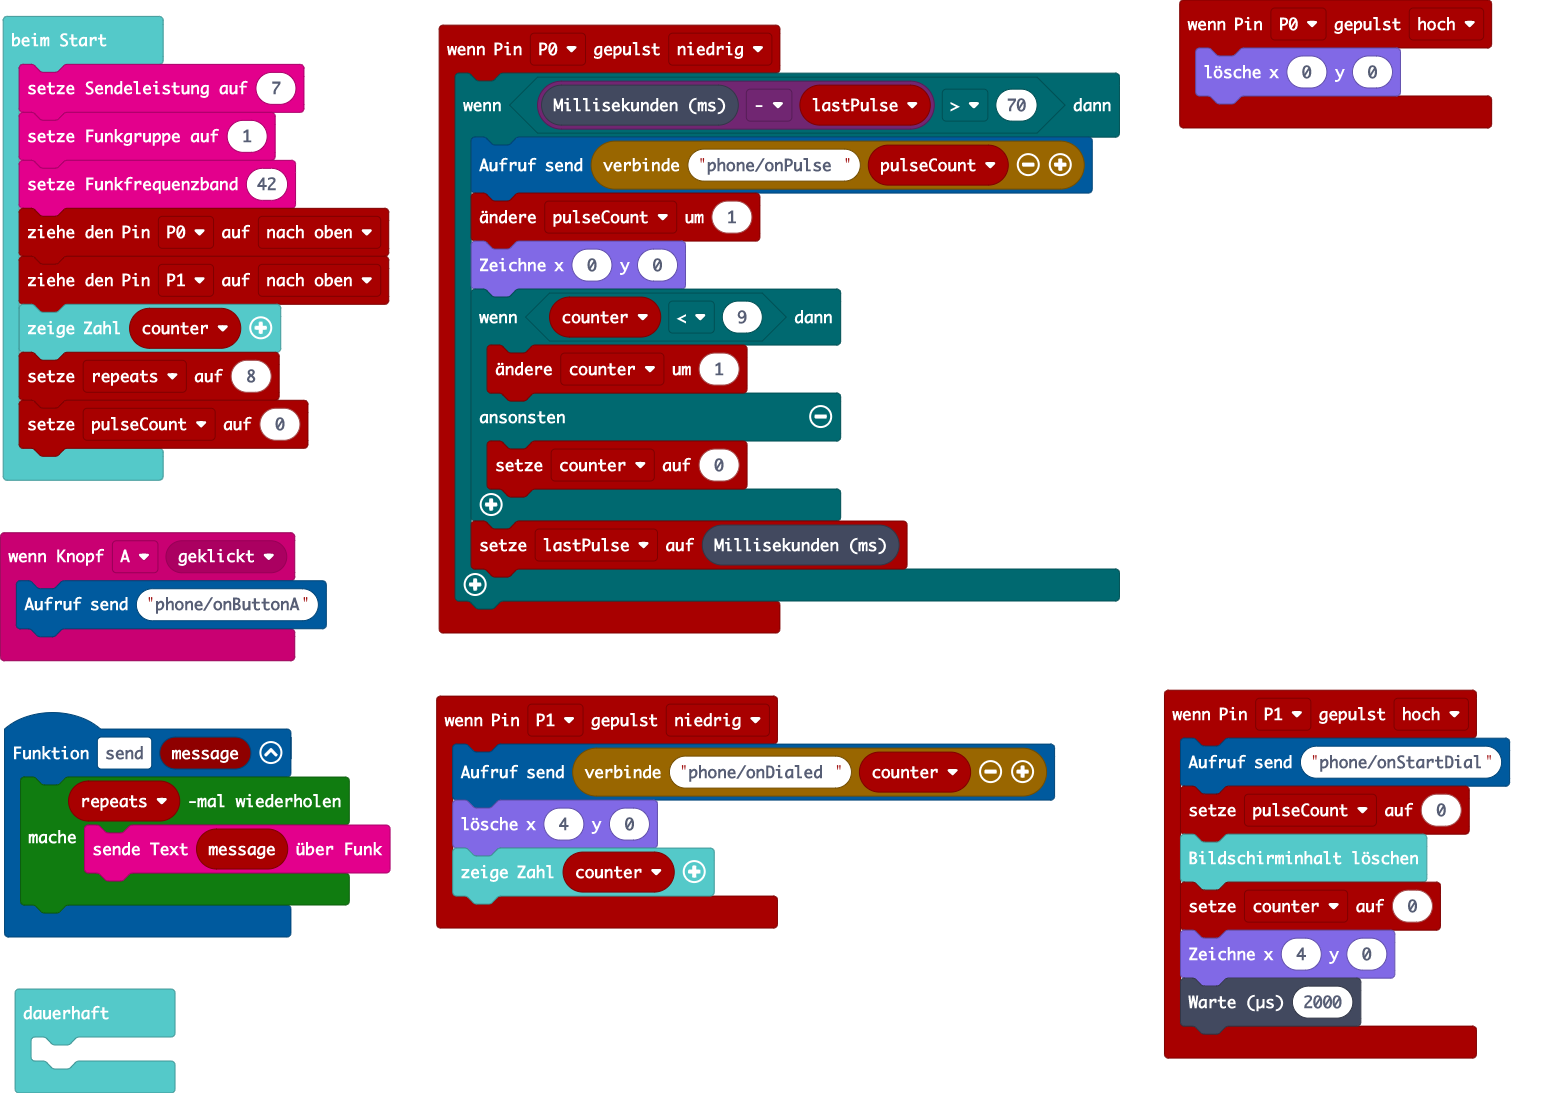
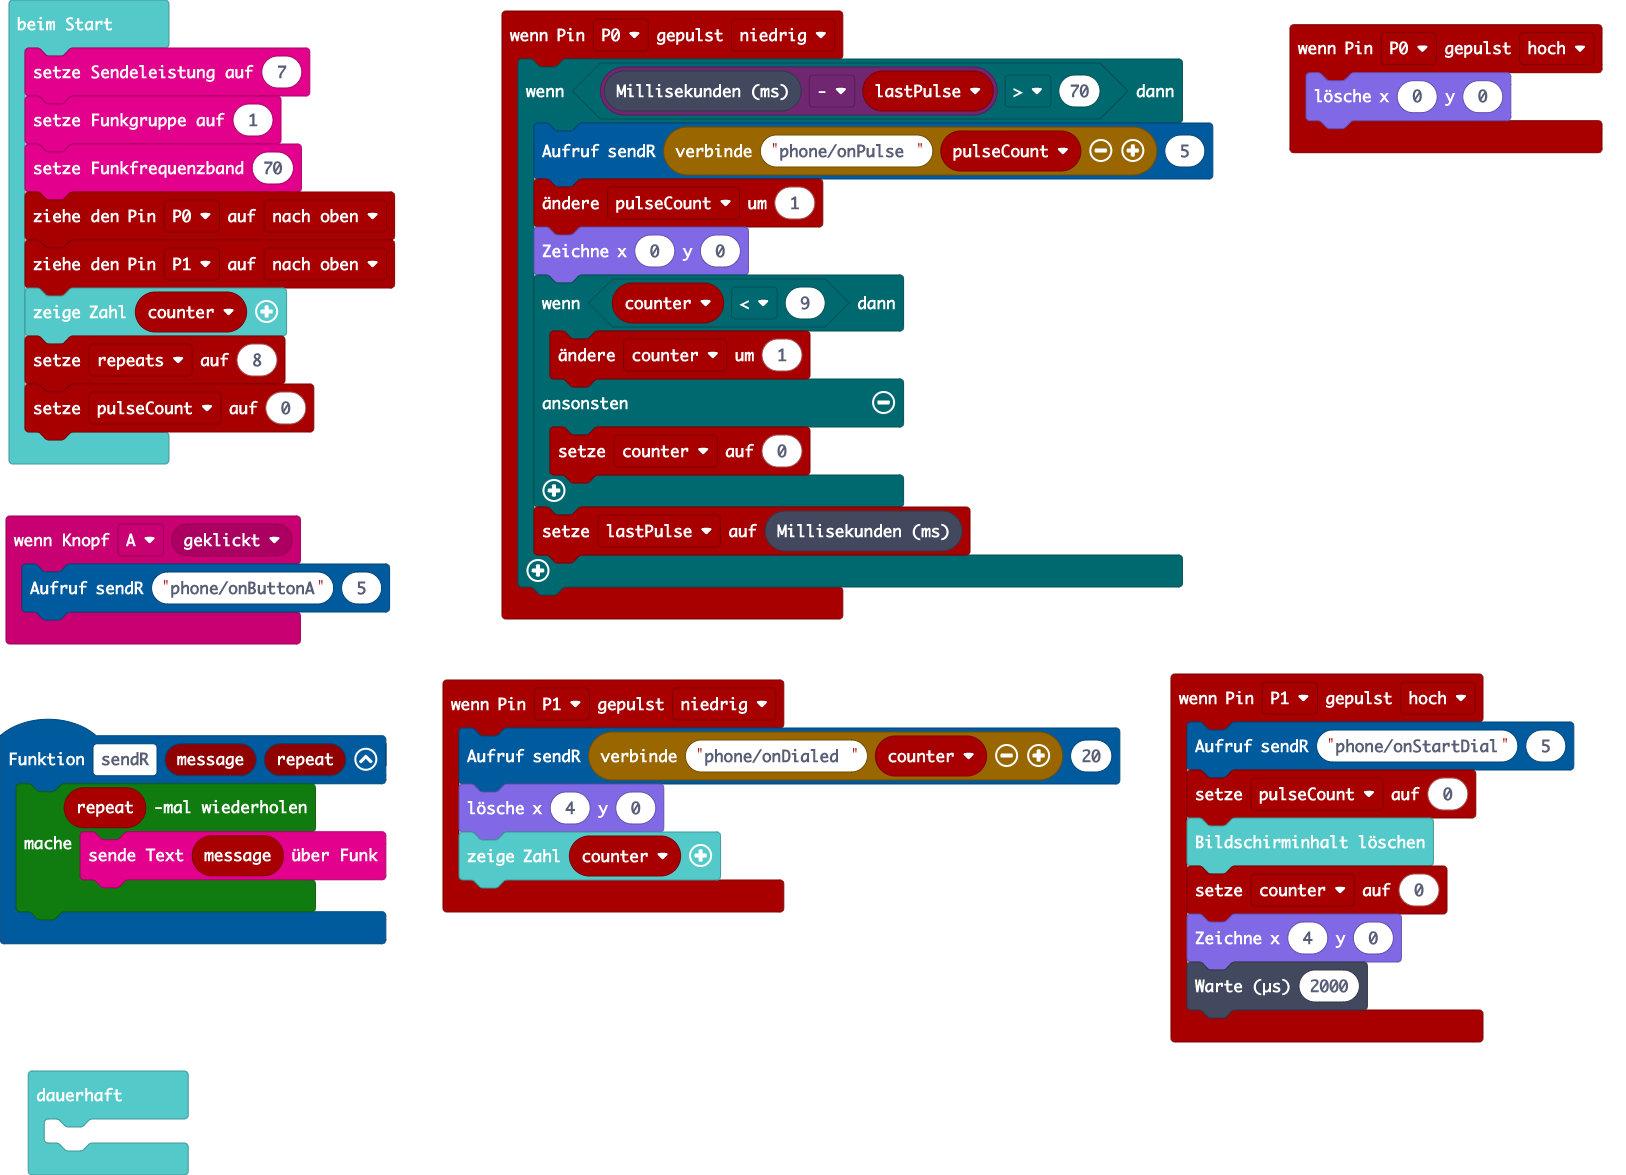
Parametrize send repeates

diff --git a/main.ts b/main.ts
@@ -2,15 +2,20 @@ enum RadioMessage {
     message1 = 49434
 }
 input.onButtonEvent(Button.A, ButtonEvent.Click, function () {
-    send("phone/onButtonA")
+    sendR("phone/onButtonA", 5)
 })
 pins.onPulsed(DigitalPin.P1, PulseValue.Low, function () {
-    send("phone/onDialed " + counter)
+    sendR("phone/onDialed " + counter, 20)
     led.unplot(4, 0)
     basic.showNumber(counter)
 })
+function sendR (message: string, repeat: number) {
+    for (let index = 0; index < repeat; index++) {
+        radio.sendString(message)
+    }
+}
 pins.onPulsed(DigitalPin.P1, PulseValue.High, function () {
-    send("phone/onStartDial")
+    sendR("phone/onStartDial", 5)
     pulseCount = 0
     basic.clearScreen()
     counter = 0
@@ -20,14 +25,9 @@ pins.onPulsed(DigitalPin.P1, PulseValue.High, function () {
 pins.onPulsed(DigitalPin.P0, PulseValue.High, function () {
     led.unplot(0, 0)
 })
-function send (message: string) {
-    for (let index = 0; index < repeats; index++) {
-        radio.sendString(message)
-    }
-}
 pins.onPulsed(DigitalPin.P0, PulseValue.Low, function () {
     if (control.millis() - lastPulse > 70) {
-        send("phone/onPulse " + pulseCount)
+        sendR("phone/onPulse " + pulseCount, 5)
         pulseCount += 1
         led.plot(0, 0)
         if (counter < 9) {
@@ -40,15 +40,14 @@ pins.onPulsed(DigitalPin.P0, PulseValue.Low, function () {
 })
 let lastPulse = 0
 let pulseCount = 0
-let repeats = 0
 let counter = 0
 radio.setTransmitPower(7)
 radio.setGroup(1)
-radio.setFrequencyBand(42)
+radio.setFrequencyBand(70)
 pins.setPull(DigitalPin.P0, PinPullMode.PullUp)
 pins.setPull(DigitalPin.P1, PinPullMode.PullUp)
 basic.showNumber(counter)
-repeats = 8
+let repeats = 8
 pulseCount = 0
 basic.forever(function () {
 	
